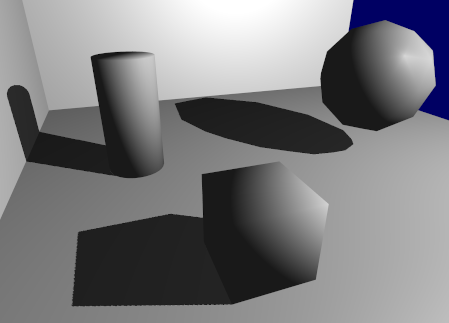
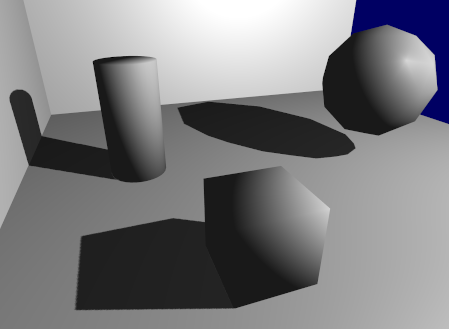
update
PCF anti-aliasing of shadow edge

diff --git a/src/main.cpp b/src/main.cpp
@@ -122,7 +122,7 @@ int main(int argc, char **argv) {
     // render the remaining scene
     glUseProgram(mainScene->shader);
     glUniform1i(mainScene->uniDrawScene, 1);
-    vec3 offset = lightDir * 0.03f;
+    vec3 offset = lightDir * 0.05f;
     tempModel = translate(mat4(1.f), vec3(2.5f, 0.f, 0.f) + offset);
     mainScene->draw(tempModel, view, projection, eyePoint, lightColor,
                     lightPosition, 13, 14);
